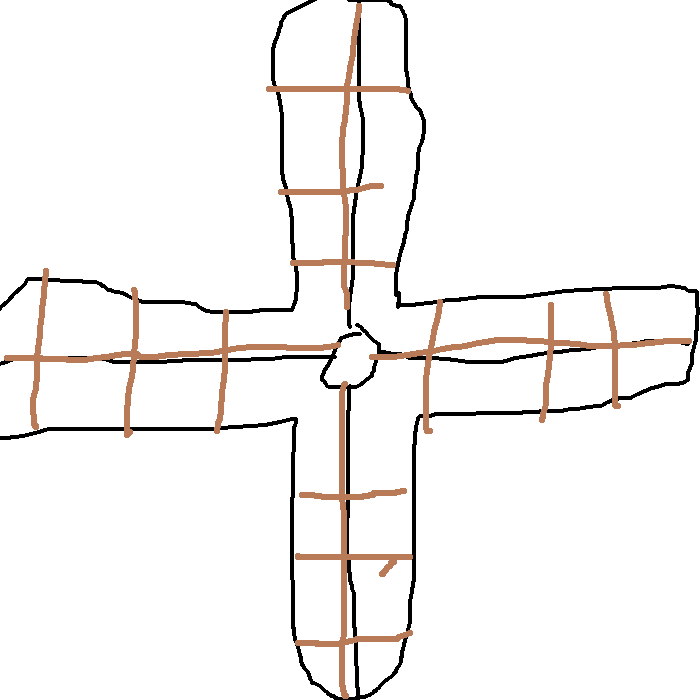
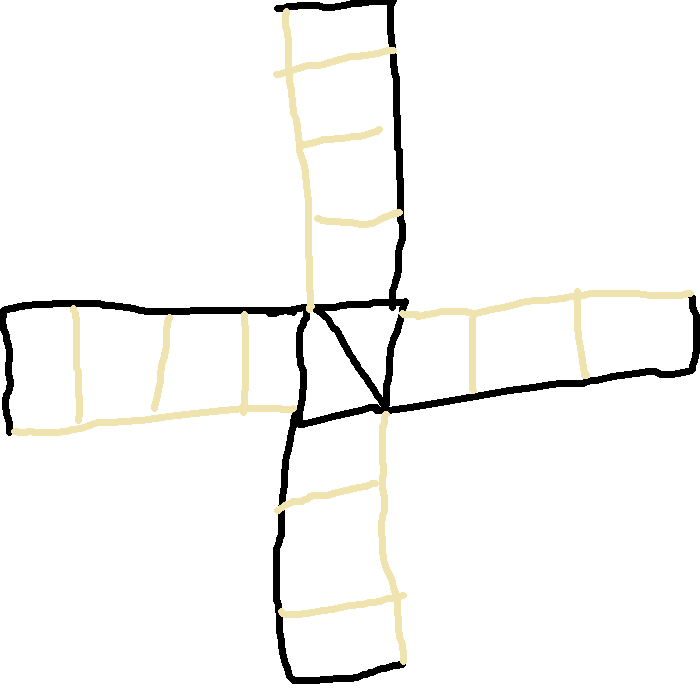
windmil and bug fix

Changed region(s): [[0.0, 0.0, 1.0, 1.0]]

diff --git a/Assets/Scripts/Timeline/Behaviors/windmill.cs b/Assets/Scripts/Timeline/Behaviors/windmill.cs
@@ -1,3 +1,4 @@
+using Unity.Mathematics;
 using UnityEngine;
 
 namespace TimeTravelBanana.Game
@@ -5,6 +6,7 @@ namespace TimeTravelBanana.Game
     public class windmill : MonoBehaviour
     {
         [SerializeField] private float rotationTorque = 20f;
+        [SerializeField] private float maxSpeed = 20f;
         [SerializeField] private bool clockwise = true;
         bool rotating;
 
@@ -20,6 +22,18 @@ namespace TimeTravelBanana.Game
             destructible = GetComponent<TimelineDestructible>();
             if (GetComponent<Contraption>() == null) gameObject.AddComponent<Contraption>();
         }
+
+        private void Start()
+        {
+            placedPosition = transform.position;
+            placedRotation = transform.rotation;
+
+            var gm = GameManager.Instance;
+            if (gm == null) return;
+            gm.OnPlacingState += HandlePlacing;
+            gm.OnPlayingState += HandlePlaying;
+        }
+
         private void OnDestroy()
         {
             var gm = GameManager.Instance;
@@ -48,7 +62,11 @@ namespace TimeTravelBanana.Game
             if (!rotating) return;
             var gm = GameManager.Instance;
             if (gm == null || gm.State != GameState.Playing) return;
-            float torqueForce = rotationTorque;
+            float currentSpeedDif = maxSpeed -math.abs(rb.angularVelocity ) ;
+            if(currentSpeedDif < 0)
+                return;
+
+            float torqueForce = rotationTorque * (1-(math.abs(rb.angularVelocity ) / maxSpeed));
             if(!clockwise )
                 torqueForce *= -1;
             rb.AddTorque(torqueForce);
